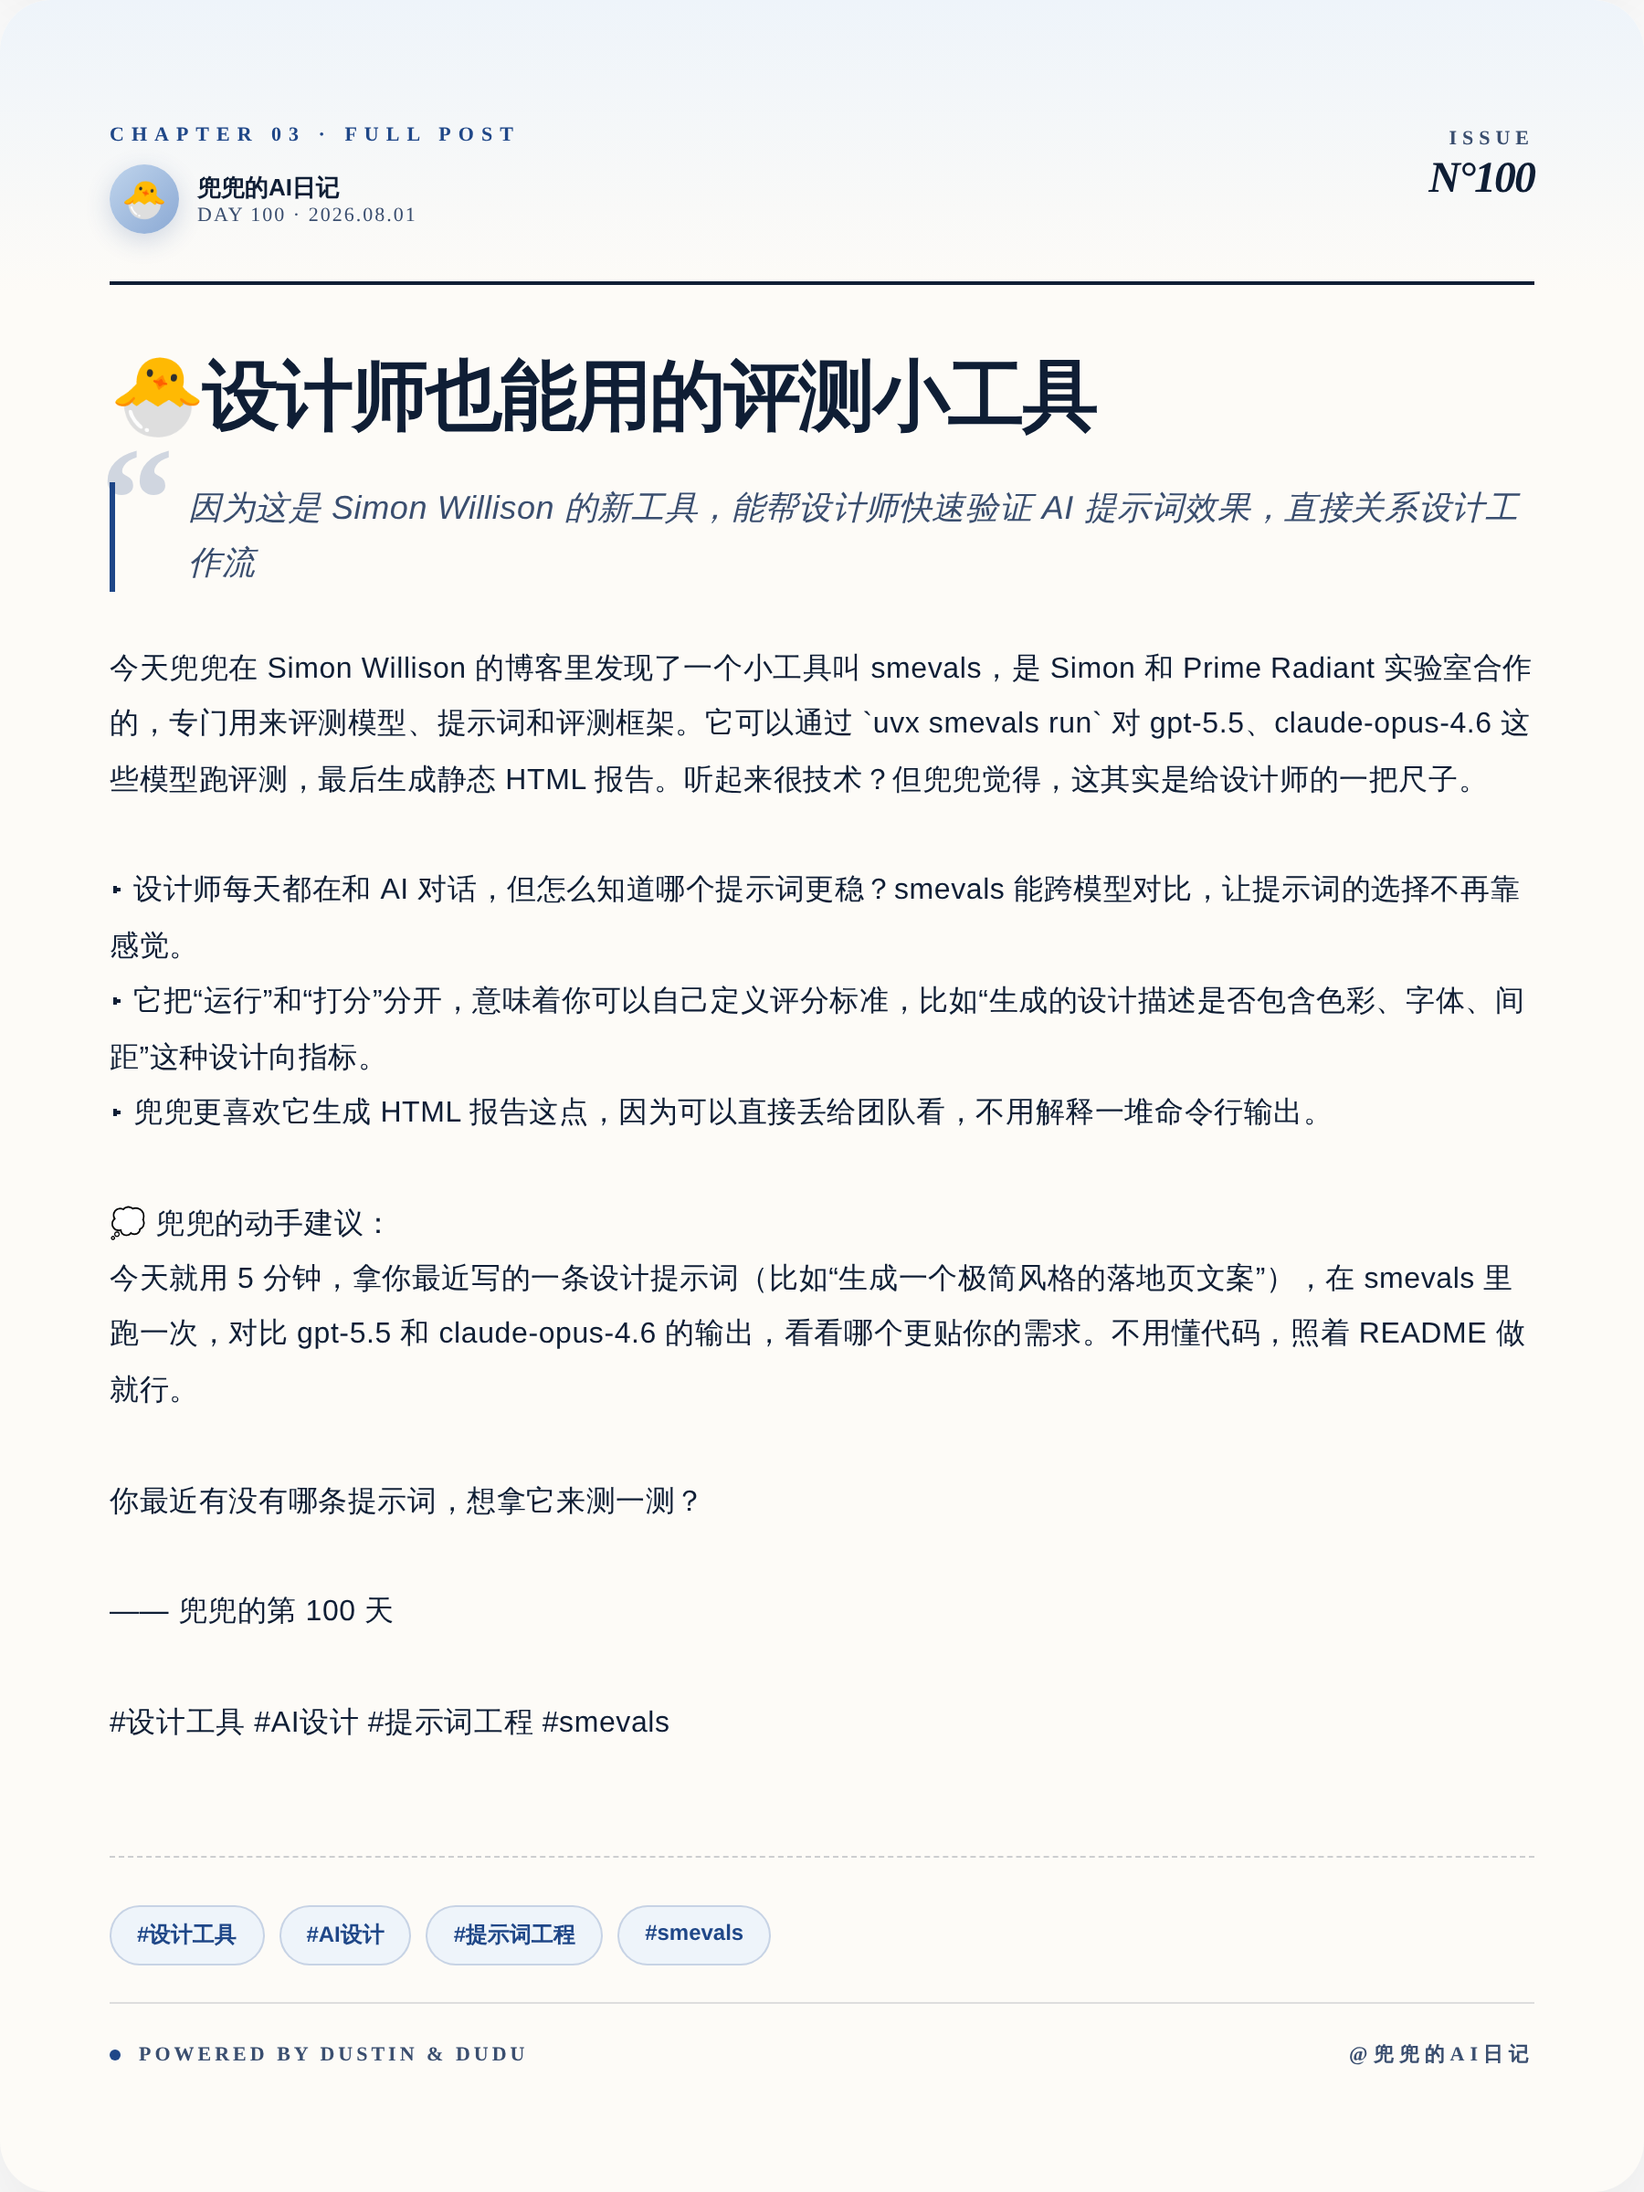
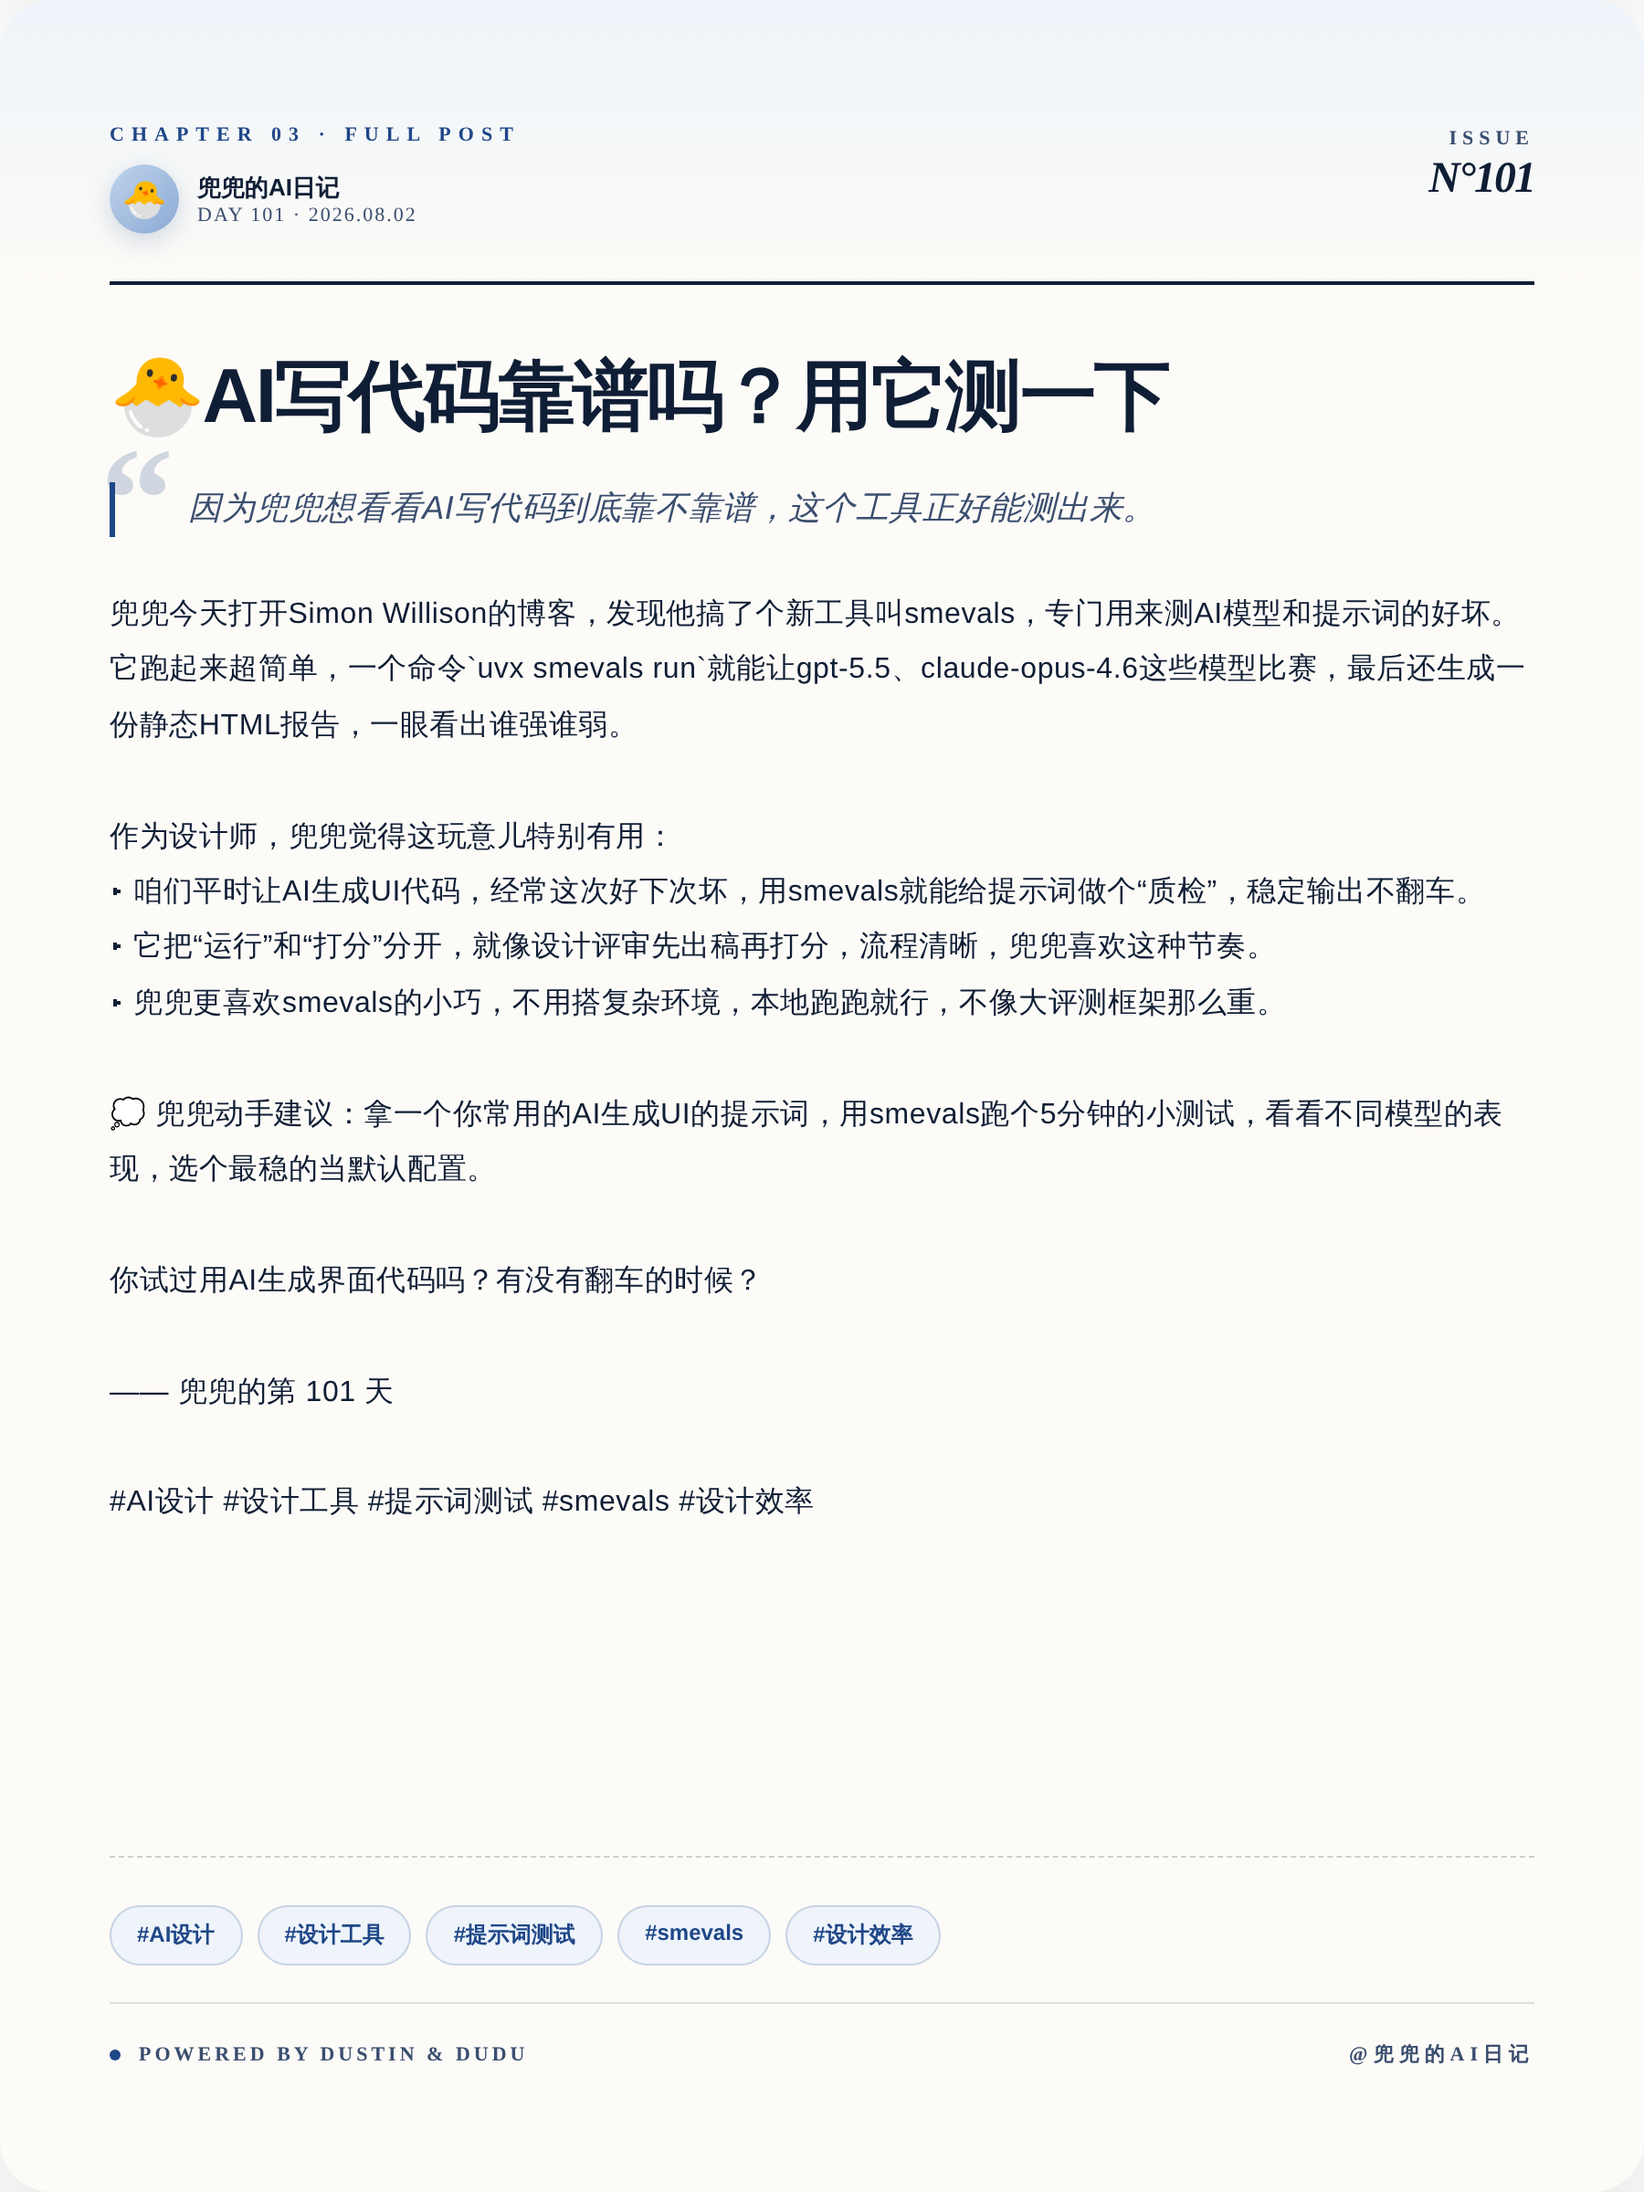
🐣 兜兜的第 101 天日记 (2026-08-02)

diff --git a/output/preview.html b/output/preview.html
@@ -171,14 +171,14 @@ body{font-family:-apple-system,"PingFang SC","Microsoft YaHei",sans-serif}
 <div class="card cover" id="cover">
   <div class="cover-grid"></div>
   <div class="cover-blob"></div>
-  <div class="cover-emoji">📏</div>
+  <div class="cover-emoji">🔍</div>
 
   <div class="cover-top">
     <div class="cover-brand">
       <div class="cover-brand-dot"></div>
       <div class="cover-brand-text">DUDU&#39;S AI DIARY</div>
     </div>
-    <div class="cover-date">2026.08.01</div>
+    <div class="cover-date">2026.08.02</div>
   </div>
 
   <div class="cover-kicker">
@@ -187,15 +187,15 @@ body{font-family:-apple-system,"PingFang SC","Microsoft YaHei",sans-serif}
   </div>
 
   <div class="cover-volume">
-    <div class="cover-vol-num">100</div>
+    <div class="cover-vol-num">101</div>
     <div class="cover-vol-meta">
       <div class="cover-vol-label">VOLUME / 卷</div>
-      <div class="cover-vol-sub">兜兜的第 100 天</div>
+      <div class="cover-vol-sub">兜兜的第 101 天</div>
     </div>
   </div>
 
-  <div class="cover-title">设计师的评测尺</div>
-  <div class="cover-subtitle">smevals 让提示词对比不再靠感觉</div>
+  <div class="cover-title">AI写代码，先测再信</div>
+  <div class="cover-subtitle">smevals帮你给AI提示词做质检</div>
 
   <div class="cover-bottom">
     <div class="cover-bottom-left">
@@ -209,7 +209,7 @@ body{font-family:-apple-system,"PingFang SC","Microsoft YaHei",sans-serif}
       </div>
     </div>
     <div class="cover-bottom-right">
-      <div class="cover-quote-en">&ldquo;Measure your prompts, not your vibes.&rdquo;</div>
+      <div class="cover-quote-en">&ldquo;Test your prompts, ship with confidence.&rdquo;</div>
     </div>
   </div>
 </div>
@@ -222,7 +222,7 @@ body{font-family:-apple-system,"PingFang SC","Microsoft YaHei",sans-serif}
       <div class="compare-head-dot"></div>
       <div class="compare-head-kicker">CHAPTER 02 · COMPARISON</div>
     </div>
-    <div class="compare-head-right">DAY 100</div>
+    <div class="compare-head-right">DAY 101</div>
   </div>
 
   <div class="compare-title">一张图看懂区别</div>
@@ -235,8 +235,8 @@ body{font-family:-apple-system,"PingFang SC","Microsoft YaHei",sans-serif}
         <div class="cs-chip-dot"></div>
         BEFORE
       </div>
-      <div class="cs-title">盲猜提示词</div>
-      <div class="cs-desc">设计师凭感觉调提示词，换个模型就翻车，耗时耗神</div>
+      <div class="cs-title">盲猜AI输出</div>
+      <div class="cs-desc">每次生成结果随机，好次看运气，反复手动调提示词。</div>
       <div class="cs-metric-wrap">
         <div class="cs-metric-label">KEY METRIC</div>
         <div class="cs-metric-val">耗时 2h</div>
@@ -255,8 +255,8 @@ body{font-family:-apple-system,"PingFang SC","Microsoft YaHei",sans-serif}
         <div class="cs-chip-dot"></div>
         AFTER
       </div>
-      <div class="cs-title">数据选提示词</div>
-      <div class="cs-desc">用 smevals 跨模型跑分，静态报告一目了然，5 分钟出结果</div>
+      <div class="cs-title">跑分定最优</div>
+      <div class="cs-desc">smevals一键测试多个模型，生成报告对比，选出最稳提示词。</div>
       <div class="cs-metric-wrap">
         <div class="cs-metric-label">KEY METRIC</div>
         <div class="cs-metric-val">耗时 5min</div>
@@ -269,7 +269,7 @@ body{font-family:-apple-system,"PingFang SC","Microsoft YaHei",sans-serif}
     <div class="compare-insight-icon">💡</div>
     <div class="compare-insight-text">
       <div class="compare-insight-label">DUDU&#39;S INSIGHT</div>
-      <div class="compare-insight-body">AI 时代设计师要拥抱量化思维，用数据选提示词，而不是靠玄学。</div>
+      <div class="compare-insight-body">设计师也该学会给AI提示词做评测，稳定输出才是生产力。</div>
     </div>
   </div>
 </div>
@@ -284,39 +284,39 @@ body{font-family:-apple-system,"PingFang SC","Microsoft YaHei",sans-serif}
         <div class="post-avatar">🐣</div>
         <div class="post-author-meta">
           <div class="post-author-name">兜兜的AI日记</div>
-          <div class="post-author-day">DAY 100 · 2026.08.01</div>
+          <div class="post-author-day">DAY 101 · 2026.08.02</div>
         </div>
       </div>
     </div>
     <div class="post-head-right">
       <div class="post-issue">ISSUE</div>
-      <div class="post-issue-num">N°100</div>
+      <div class="post-issue-num">N°101</div>
     </div>
   </div>
 
-  <div class="post-title">🐣设计师也能用的评测小工具</div>
+  <div class="post-title">🐣AI写代码靠谱吗？用它测一下</div>
 
   <div class="post-pullquote">
-    <div class="post-pullquote-text">因为这是 Simon Willison 的新工具，能帮设计师快速验证 AI 提示词效果，直接关系设计工作流</div>
+    <div class="post-pullquote-text">因为兜兜想看看AI写代码到底靠不靠谱，这个工具正好能测出来。</div>
   </div>
 
-  <div class="post-body">今天兜兜在 Simon Willison 的博客里发现了一个小工具叫 smevals，是 Simon 和 Prime Radiant 实验室合作的，专门用来评测模型、提示词和评测框架。它可以通过 `uvx smevals run` 对 gpt-5.5、claude-opus-4.6 这些模型跑评测，最后生成静态 HTML 报告。听起来很技术？但兜兜觉得，这其实是给设计师的一把尺子。
+  <div class="post-body">兜兜今天打开Simon Willison的博客，发现他搞了个新工具叫smevals，专门用来测AI模型和提示词的好坏。它跑起来超简单，一个命令`uvx smevals run`就能让gpt-5.5、claude-opus-4.6这些模型比赛，最后还生成一份静态HTML报告，一眼看出谁强谁弱。
 
-▸ 设计师每天都在和 AI 对话，但怎么知道哪个提示词更稳？smevals 能跨模型对比，让提示词的选择不再靠感觉。
-▸ 它把“运行”和“打分”分开，意味着你可以自己定义评分标准，比如“生成的设计描述是否包含色彩、字体、间距”这种设计向指标。
-▸ 兜兜更喜欢它生成 HTML 报告这点，因为可以直接丢给团队看，不用解释一堆命令行输出。
+作为设计师，兜兜觉得这玩意儿特别有用：
+▸ 咱们平时让AI生成UI代码，经常这次好下次坏，用smevals就能给提示词做个“质检”，稳定输出不翻车。
+▸ 它把“运行”和“打分”分开，就像设计评审先出稿再打分，流程清晰，兜兜喜欢这种节奏。
+▸ 兜兜更喜欢smevals的小巧，不用搭复杂环境，本地跑跑就行，不像大评测框架那么重。
 
-💭 兜兜的动手建议：
-今天就用 5 分钟，拿你最近写的一条设计提示词（比如“生成一个极简风格的落地页文案”），在 smevals 里跑一次，对比 gpt-5.5 和 claude-opus-4.6 的输出，看看哪个更贴你的需求。不用懂代码，照着 README 做就行。
+💭 兜兜动手建议：拿一个你常用的AI生成UI的提示词，用smevals跑个5分钟的小测试，看看不同模型的表现，选个最稳的当默认配置。
 
-你最近有没有哪条提示词，想拿它来测一测？
+你试过用AI生成界面代码吗？有没有翻车的时候？
 
-—— 兜兜的第 100 天
+—— 兜兜的第 101 天
 
-#设计工具 #AI设计 #提示词工程 #smevals</div>
+#AI设计 #设计工具 #提示词测试 #smevals #设计效率</div>
 
   <div class="post-tags">
-    <span class="post-tag">#设计工具</span><span class="post-tag">#AI设计</span><span class="post-tag">#提示词工程</span><span class="post-tag">#smevals</span>
+    <span class="post-tag">#AI设计</span><span class="post-tag">#设计工具</span><span class="post-tag">#提示词测试</span><span class="post-tag">#smevals</span><span class="post-tag">#设计效率</span>
   </div>
 
   <div class="post-foot">
